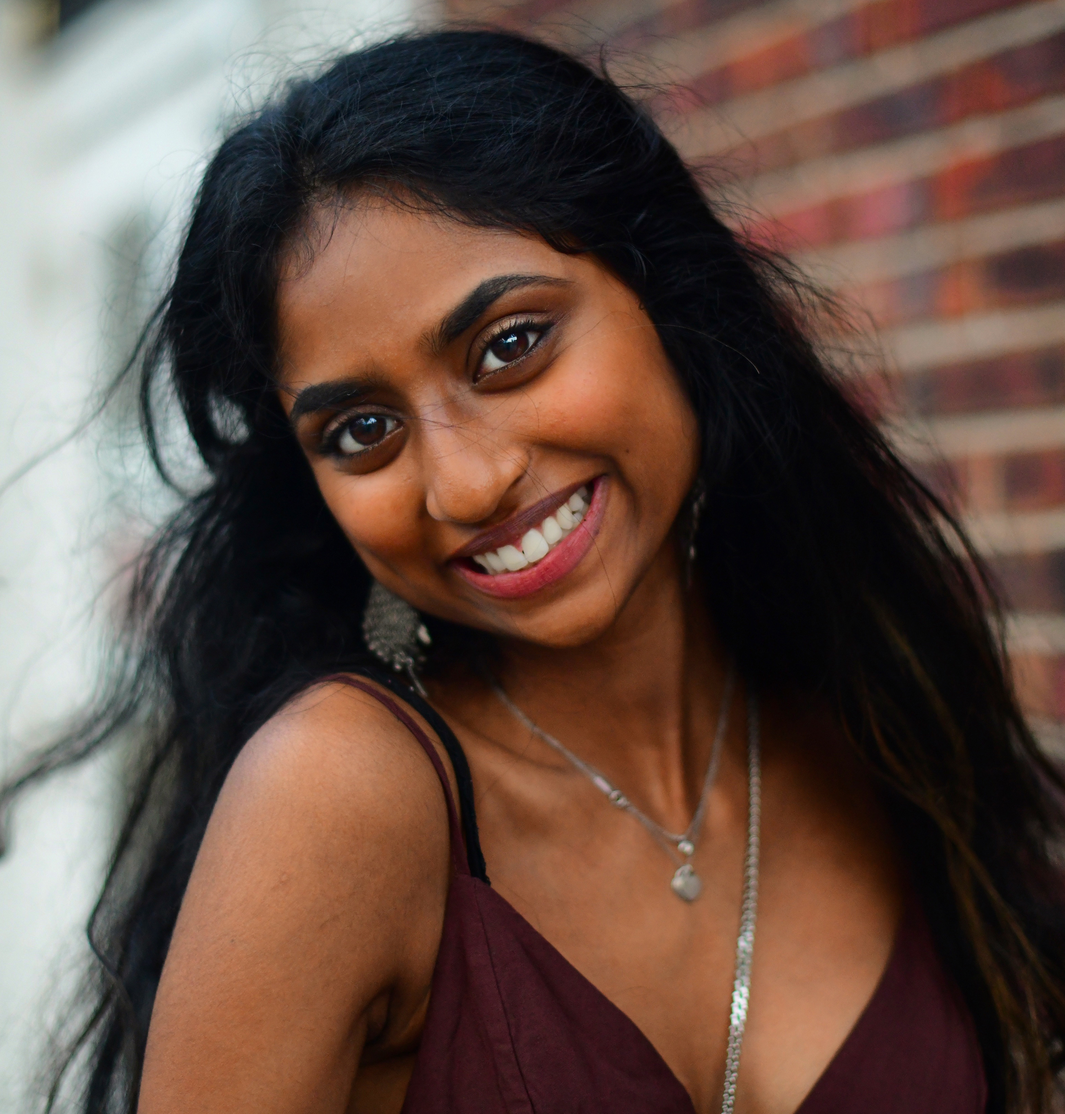
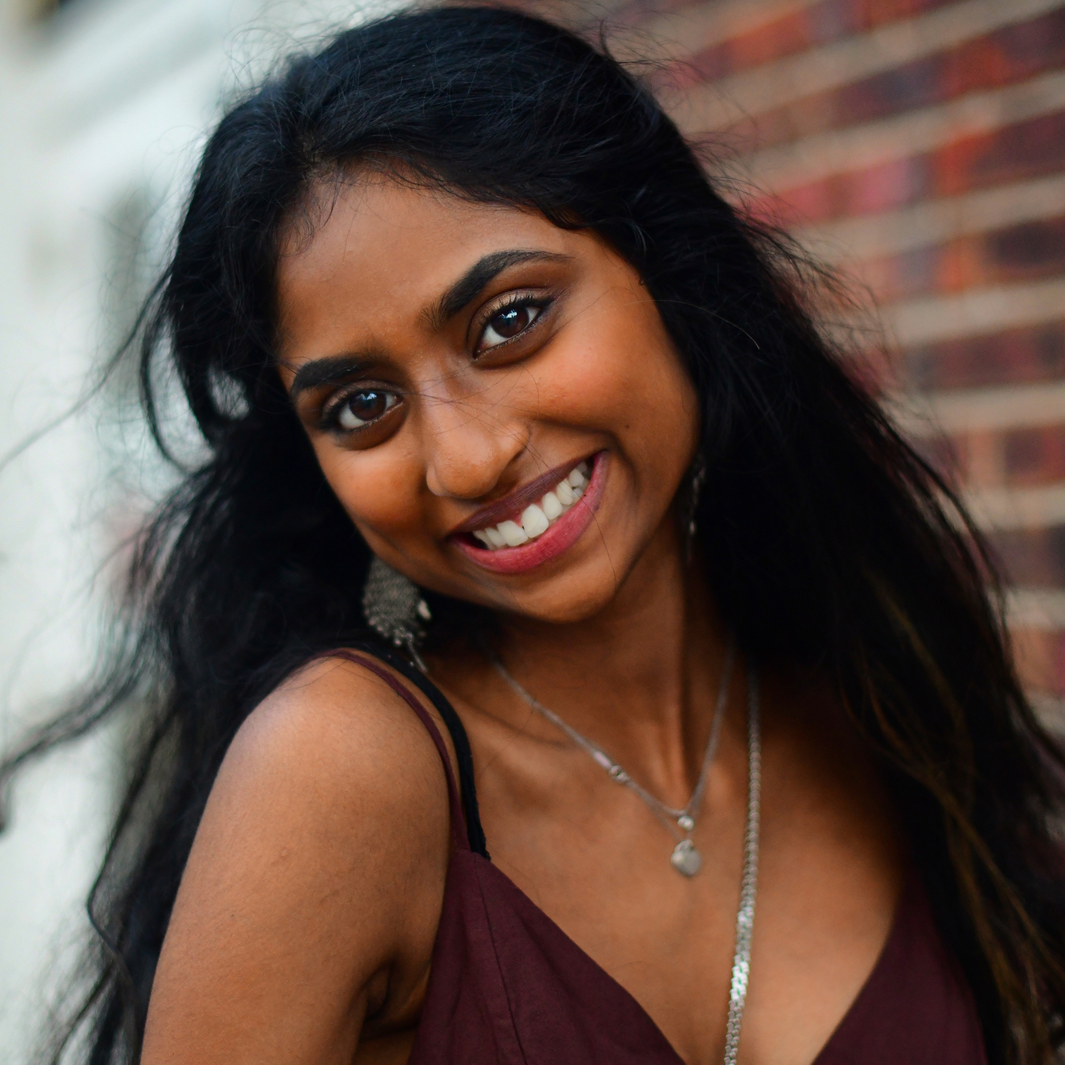
boostrap contact

diff --git a/donate.html b/donate.html
@@ -18,7 +18,6 @@
     </head>
 
 <body>
-
 <!-- Navigation Bar -->
 <nav class="navbar navbar-expand-sm navbar-dark pr-5 pl-5">
     <a class="navbar-brand" href="index.html"><img id="navbar-image" src="Lynks-Digital-Agency-Logo.png" alt="Lynks Logo"></a> 
@@ -43,27 +42,31 @@
     </div>
   </nav>
 
+
 <!-- Title -->
-  <div class="position-absolute col-xxl-3 align-items-center">
-    <h1 class="p-5 m-5">
-        Donate To Our
-        <br>
-        Nonprofit Fund
-    </h1>
+<div class="container d-flex">
+  <div class="container d-flex flex-column justify-content-center">
+    <h2>Donate To Our </h2>
+    <h2>Nonprofit Fund</h2>
   </div>
 
   <!-- Donate Box -->
-  <div class="col-11 d-flex justify-content-end">
-        <div class="px-4 py-5 rounded bg-light align-items-center">
-          <h2 class="text-center">Support Our Cause</h2>
-        <br>
-        <p class="text-dark text-center text-secondary">Help our organization by donating today!<br>All donations go directly to our<br>Nonprofit Digital Relief fund. 100% of the<br>funds are used for the purchasing of<br>website domains, hosting platforms, and<br>special plugins for the nonprofits we support.</p>
-        <br>
-        <div class="justify-content-center align-items-center d-flex">
-            <button type="button" class="btn btn-primary btn-lg">Donate Now ></button>
-        </div>
-      </div>
+  <div class="container d-flex justify-content-end">
+    <div class="px-4 py-5 rounded bg-light align-items-center">
+      <h2 class="text-center">Support Our Cause</h2>
+    <br>
+    <p class="text-dark text-center text-secondary">Help our organization by donating today! 
+      All donations go directly to our Nonprofit Digital Relief fund. 
+      100% of the funds are used for the purchasing of website domains, hosting platforms, 
+      and special plugins for the nonprofits we support.</p>
+    <br>
+    <div class="justify-content-center align-items-center d-flex">
+        <button type="button" class="primary-button mr-2">Donate Now ></button>
     </div>
+    </div>
+  </div>
+</div>
+
 
 <!-- Footer -->
 <footer class="footer-isha d-flex justify-content-between text-light pr-5 pl-5 pt-3">
@@ -78,3 +81,4 @@
 
 </body>
 </html>
+

diff --git a/portfolio.html b/portfolio.html
@@ -46,8 +46,8 @@
             <div class="col-md-6 d-none d-md-block text-center my-5">
                 <a href="https://www.foodandgrowers.com/"><img src="fga-site.png" alt="Food and Growers Site" class="img-fluid mb-3"></a>
                 <p class="text-white">Food and Growers Association NGO</p>
-                <a href="https://eyesurgicalservices.com"><img src="eye-site.png" alt="Surgery Center Site" class="img-fluid mb-3"></a>
-                <p class="text-white">Eye Surgical Services</p>
+                <a href="https://2020lasikindianapolis.com/"><img src="eye-site.png" alt="Surgery Center Site" class="img-fluid mb-3"></a>
+                <p class="text-white">ELITE Lasik & Cataract</p>
             </div>
             <!-- Right Column (if bigger deivce)-->
             <div class="col-md-6 d-none d-md-block text-center my-5">
@@ -61,8 +61,8 @@
             <div class="col-12 d-md-none text-center my-5">
                 <a href="https://www.foodandgrowers.com/"><img src="fga-site.png" alt="Food and Growers Site" class="img-fluid mb-3"></a>
                 <p class="text-white">Food and Growers Association NGO</p>
-                <a href="https://eyesurgicalservices.com"><img src="eye-site.png" alt="Surgery Center Site" class="img-fluid mb-3"></a>
-                <p class="text-white">Eye Surgical Services</p>
+                <a href="https://2020lasikindianapolis.com/"><img src="eye-site.png" alt="Surgery Center Site" class="img-fluid mb-3"></a>
+                <p class="text-white">ELITE Lasik & Cataract</p>
                 <a href="https://natemiller.art/"><img src="fashion-site.png" alt="Fashion Site" class="img-fluid mb-3"></a>
                 <p class="text-white">Fashion Artist Portfolio</p>
                 <a href="https://raeyaponugoti.com/"><img src="film-site.png" alt="Film Director Site" class="img-fluid mb-3"></a>

diff --git a/about.html b/about.html
@@ -121,31 +121,31 @@
 </div>
 
 <div class="container d-flex justify-content-between">
-  <div class="container team-member">
+  <div class="container">
     <img src="isha.jpeg" class="img-fluid" alt="isha headshot">
     <h3>Isha Ponugoti</h3>
     <p style="color: #8CBDD3;">Lead Web Developer</p>
   </div>
-  <div class="container team-member">
-    <img src="raeya.jpg" class="img-fluid" alt="raeya headshot">
+  <div class="container">
+    <img src="raeya.jpeg" class="img-fluid" alt="raeya headshot">
     <h3>Raeya Ponugoti</h3>
     <p style="color: #8CBDD3;">Lead Web Designer</p>
   </div>
-  <div class="container team-member">
-    <img src="ashley.JPG" class="img-fluid" alt="ashley headshot">
+  <div class="container">
+    <img src="ashley.jpeg" class="img-fluid" alt="ashley headshot">
     <h3>Ashley Woertz</h3>
     <p style="color: #8CBDD3;">Web Designer/Developer</p>
   </div>
 </div>
 <br>
-<div class="container d-flex justify-content-around">
-  <div class="container team-member">
-    <img src="kayla.jpeg" class="img-fluid" alt="kayla headshot">
+<div class="container d-flex justify-content-center">
+  <div class="container text-center">
+    <img src="kayla.jpeg" class="img-fluid" alt="kayla headshot" style="width: 75%;">
     <h3>Kayla Nguyen</h3>
     <p style="color: #8CBDD3;">Web Designer/Developer</p>
   </div>
-  <div class="container team-member">
-    <img src="neha.png" class="img-fluid" alt="neha headshot">
+  <div class="container text-center">
+    <img src="neha.jpeg" class="img-fluid" alt="neha headshot" style="width: 75%">
     <h3>Neha Patil</h3>
     <p style="color: #8CBDD3;">Web Designer/Developer</p>
   </div>

diff --git a/contact-us.html b/contact-us.html
@@ -18,7 +18,8 @@
 </head>
 
 <body>
-    <!-- Navigation Bar -->
+
+  <!-- Navigation Bar -->
 <nav class="navbar navbar-expand-sm navbar-dark pr-5 pl-5">
     <a class="navbar-brand" href="index.html"><img id="navbar-image" src="Lynks-Digital-Agency-Logo.png" alt="Lynks Logo"></a> 
     <button class="navbar-toggler" type="button" data-toggle="collapse" data-target="#navbarNav" aria-controls="navbarNav" aria-expanded="false" aria-label="Toggle navigation">
@@ -42,25 +43,21 @@
     </div>
   </nav>
 
-  <div class="container">
-        <center>
-            <h2 class="heading">Contact Us</h2>
-            <p>Want help with your site? Want to join our team? Have any other inquiries? Reach out!</p>
-        </center>
+  <div class="container text-center">
+     <h2>Contact Us</h2>
+      <p>Want help with your site? Want to join our team? Have any other inquiries? Reach out!</p>
   </div>
 
-  <div class="container">
-    <center>
+  <div class="container text-center">
         <div class="sender-email-input">
             <input class="sender-email" placeholder="Your Email" type="text">
         </div>
         <br>
-        <input class="message" placeholder="What do you want to tell us!" type="text">
+        <input class="container px-4 py-5 rounded text-center" placeholder="What do you want to tell us!" type="text">
         <br>
-        <div class="submit-button">
-            <button class= "submit" type="submit">Submit</button>
+        <div class="submit-button mt-3">
+            <button  class="primary-button mr-2" type="submit">Submit</button>
         </div>
-    </center>
   </div>
 
 <!-- Footer -->
